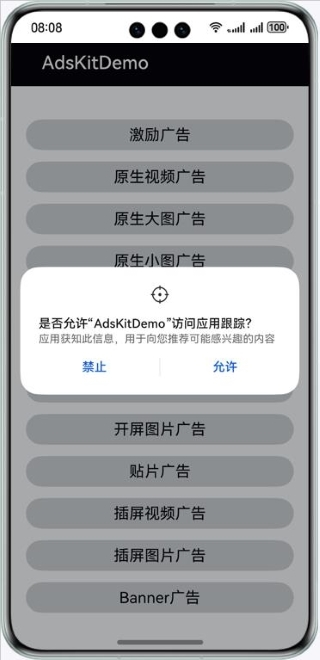
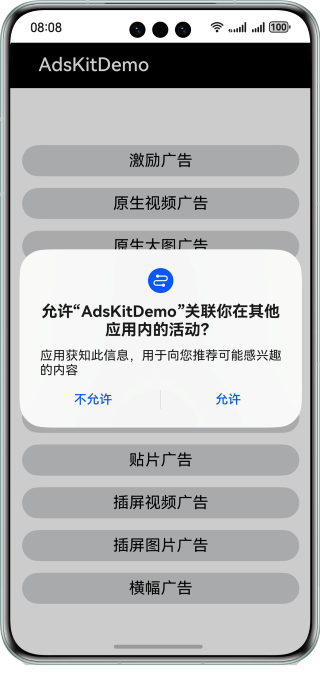
Ads Kit

diff --git a/readme_cn.md b/readme_cn.md
@@ -29,7 +29,7 @@
 |--------------------------------------------------|-----------------------------------------------------|---------------------------------------------------|
 | ![avatar](./screenshots/device/splash_video.jpg) | ![avatar](./screenshots/device/splash_pictures.jpg) |![avatar](./screenshots/device/placement.jpg) |
 
-| **插屏视频广告页面**                                           | **插屏图片广告页面**      | **Banner广告页面** |
+| **插屏视频广告页面**                                           | **插屏图片广告页面**      | **横幅广告页面** |
 |--------------------------------------------------------|-------------------|--------------------------------------------------------|
 | ![avatar](./screenshots/device/interstitial_video.jpg) | ![avatar](./screenshots/device/interstitial_pictures.jpg) | ![avatar](./screenshots/device/banner.jpg) |
 
@@ -48,7 +48,7 @@
 │ │ └─HiAdLog.ets                  // 日志组件
 │ ├─pages                          // 存放页面文件目录                
 │ │ ├─AdsServicePage.ets           // 应用主页面
-│ │ ├─BannerAdPage.ets             // Banner广告主页面
+│ │ ├─BannerAdPage.ets             // 横幅广告主页面
 │ │ ├─NativeAdPage.ets             // 原生广告主页面 
 │ │ ├─PlacementAdPage.ets          // 贴片广告主页面
 │ │ ├─SplashFullScreenAdPage.ets   // 开屏广告全屏开屏广告页面                
@@ -64,7 +64,7 @@
 本示例代码包括以下文件，便于您进行广告请求、广告展示：
 
 1. AdsServicePage.ets
-流量变现服务演示界面，可以请求并展示Banner广告、激励广告、原生广告、开屏广告、贴片广告、插屏广告，点击对应按钮可以展示相应的广告内容。
+流量变现服务演示界面，可以请求并展示横幅广告、激励广告、原生广告、开屏广告、贴片广告、插屏广告，点击对应按钮可以展示相应的广告内容。
 <br>代码位置： entry\src\main\ets\pages\AdsServicePage.ets</br>
 
 2. NativeAdPage.ets
@@ -84,7 +84,7 @@
 <br>代码位置：entry\src\main\ets\pages\SplashHalfScreenAdPage.ets</br>
 
 6. BannerAdPage.ets
-用于展示Banner广告。
+用于展示横幅广告。
 <br>代码位置：entry\src\main\ets\pages\BannerAdPage.ets</br>
 
 ## 相关权限
